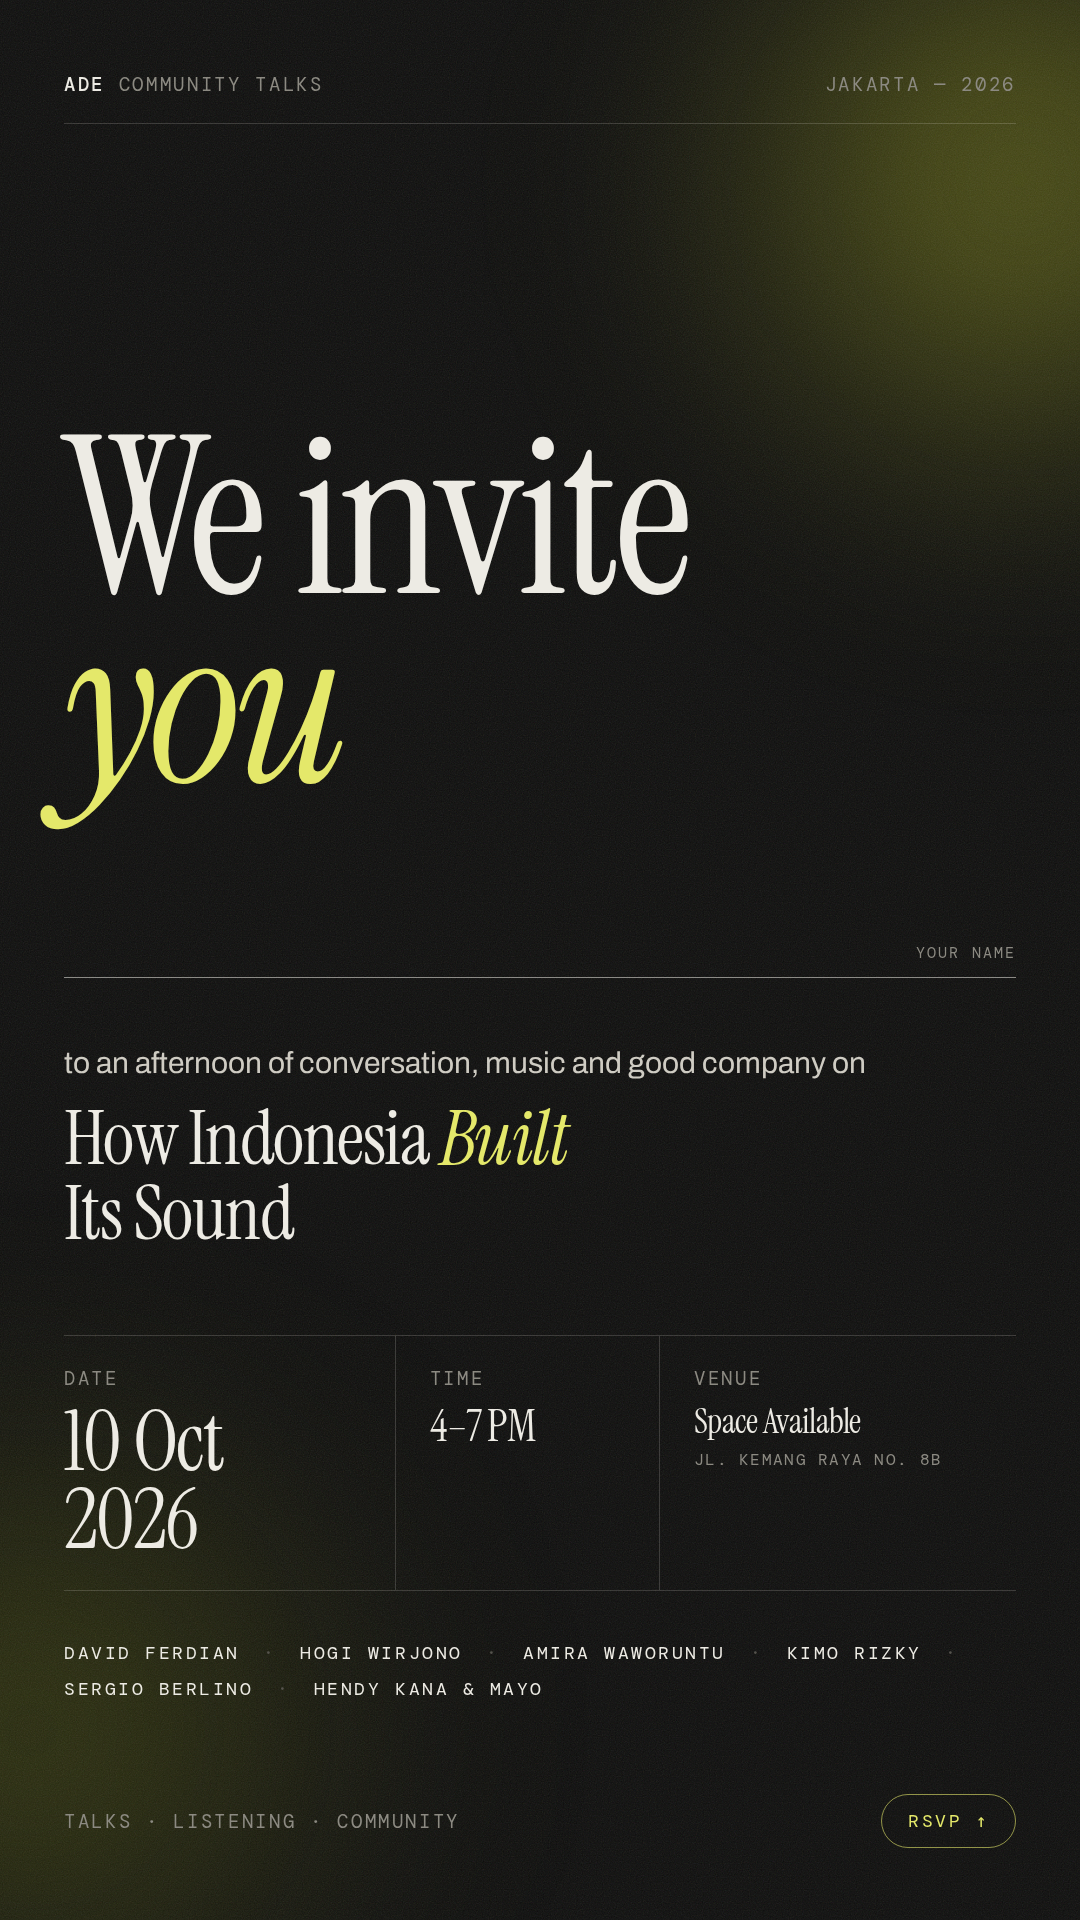
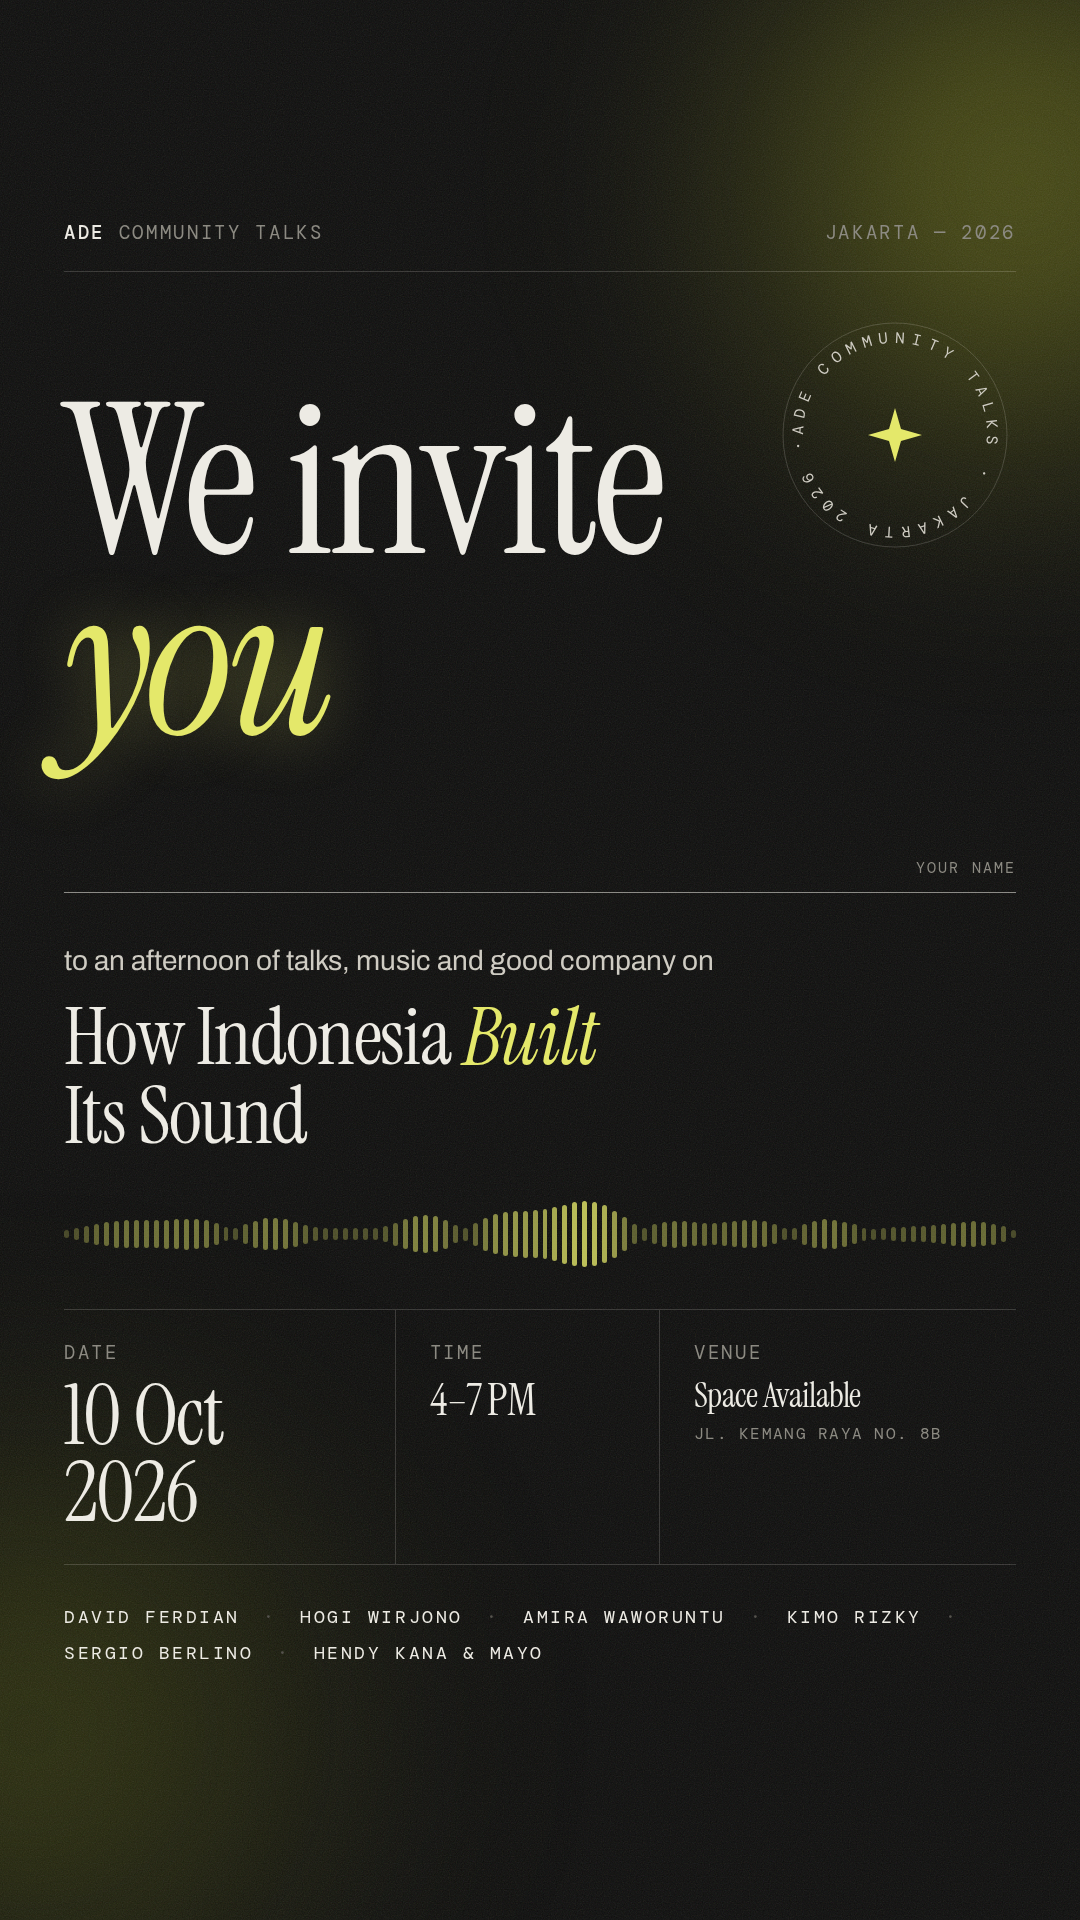
ADE e-invite: badge, waveform, IG safe zones
Claude-Session: https://claude.ai/code/session_01Sc5gF2HRFqjLpMQDrx7aqZ

diff --git a/events/ade-community-talks-2026/00-invite.html b/events/ade-community-talks-2026/00-invite.html
@@ -39,6 +39,21 @@ body { position: relative; font-family: 'Archivo', sans-serif; }
 .who i { font-style: normal; white-space: nowrap; color: var(--fg); }
 .foot { position: absolute; left: 64px; right: 64px; bottom: 72px; }
 .pill { border: 1px solid rgba(228,232,106,.6); color: var(--y); border-radius: 999px; padding: 14px 26px; font-family: 'DM Mono', monospace; font-size: 18px; letter-spacing: .14em; }
+
+.page { padding-top: 220px; }
+.hero { margin-top: 120px; font-size: 210px; position: relative; }
+.hero em { text-shadow: 0 0 60px rgba(228,232,106,.35); }
+.badge { position: absolute; right: 70px; top: 320px; width: 230px; height: 230px; animation: none; }
+.badge text { font-family: 'DM Mono', monospace; font-size: 15.5px; letter-spacing: 0; fill: #cfccc3; text-transform: uppercase; }
+.badge .star { fill: var(--y); }
+.blank { margin-top: 40px; height: 100px; }
+.lead { margin-top: 48px; font-size: 28px; }
+.title { font-size: 80px; }
+.wave { margin-top: 44px; height: 70px; display: flex; align-items: center; gap: 5px; }
+.wave i { flex: 1; background: var(--y); border-radius: 3px; opacity: .55; }
+.facts { margin-top: 40px; }
+.who { margin-top: 34px; }
+.foot { bottom: auto; top: 1640px; }
 </style></head>
 <body>
 <div class="glow g1"></div><div class="glow g2"></div><div class="grain"></div>
@@ -46,11 +61,19 @@ body { position: relative; font-family: 'Archivo', sans-serif; }
   <div class="row"><div class="mono"><b>ADE</b> Community Talks</div><div class="mono">Jakarta — 2026</div></div>
   <div class="hr" style="margin-top:26px"></div>
 
+<svg class="badge" viewBox="0 0 230 230">
+    <defs><path id="c" d="M115,115 m-92,0 a92,92 0 1,1 184,0 a92,92 0 1,1 -184,0"/></defs>
+    <circle cx="115" cy="115" r="112" fill="none" stroke="rgba(237,235,228,.18)"/>
+    <text><textPath href="#c" textLength="572" lengthAdjust="spacing">ADE Community Talks · Jakarta 2026 · </textPath></text>
+    <path class="star" d="M115 88 L121 109 L142 115 L121 121 L115 142 L109 121 L88 115 L109 109 Z"/>
+  </svg>
   <div class="serif hero">We invite<br><em>you</em></div>
   <div class="blank"><span class="mono" style="font-size:15px">your name</span></div>
 
-  <div class="lead">to an afternoon of conversation, music and good company on</div>
+  <div class="lead">to an afternoon of talks, music and good company on</div>
   <div class="serif title">How Indonesia <em>Built</em><br>Its Sound</div>
+
+  <div class="wave" id="wave"></div>
 
   <div class="facts">
     <div><div class="mono">Date</div><div class="v serif date">10 Oct<br>2026</div></div>
@@ -60,9 +83,10 @@ body { position: relative; font-family: 'Archivo', sans-serif; }
 
   <div class="mono who"><i>David Ferdian</i> <span>·</span> <i>Hogi Wirjono</i> <span>·</span> <i>Amira Waworuntu</i> <span>·</span> <i>Kimo Rizky</i> <span>·</span> <i>Sergio Berlino</i> <span>·</span> <i>Hendy Kana &amp; Mayo</i></div>
 
-  <div class="foot row">
-    <div class="mono">Talks · Listening · Community</div>
-    <div class="pill">RSVP ↑</div>
-  </div>
 </div>
+<script>
+  const w=document.getElementById('wave');
+  for(let i=0;i<96;i++){const x=i/95;const h=Math.max(.08,Math.abs(Math.sin(x*21)*.55+Math.sin(x*7.3+1)*.35+Math.sin(x*53)*.18))*Math.sin(Math.PI*x)**.6;
+    const b=document.createElement('i');b.style.height=(8+h*62)+'px';b.style.opacity=(.25+h*.6).toFixed(2);w.appendChild(b);}
+</script>
 </body></html>
